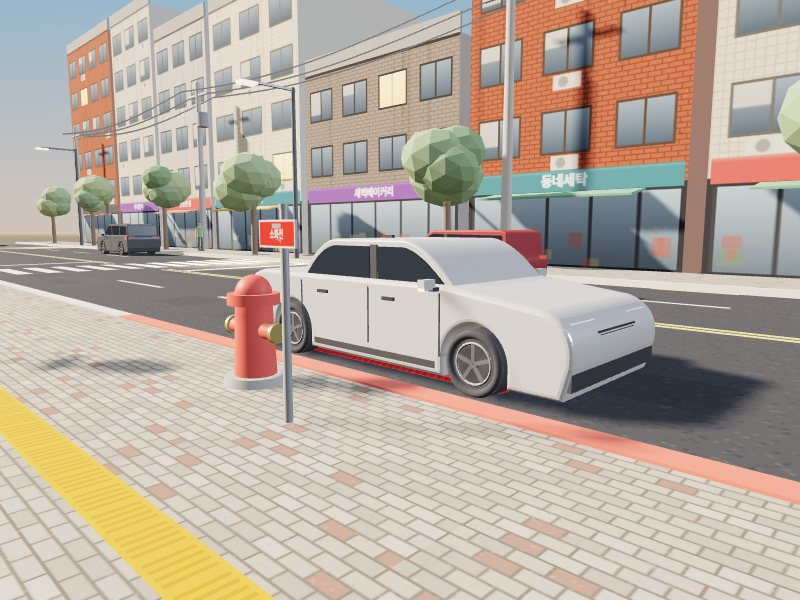
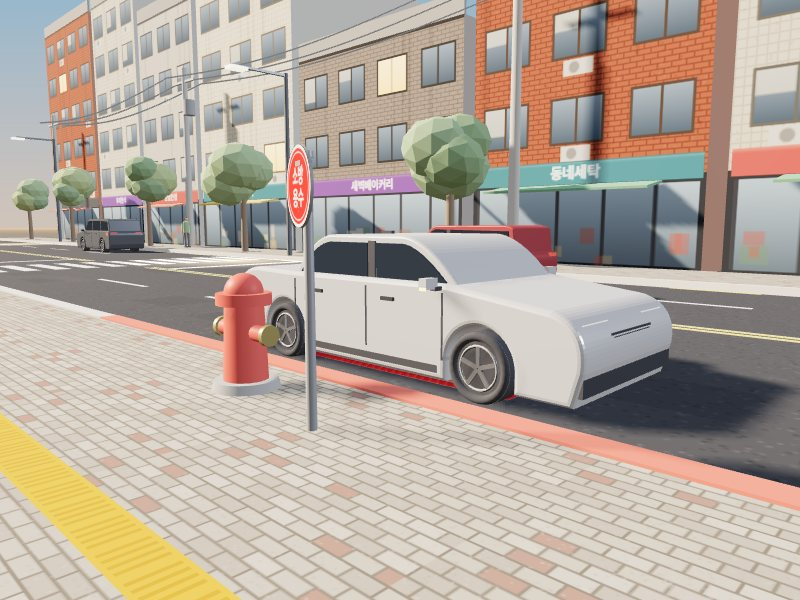
휴대폰은 안전신문고 앱 스토어로 연결, 소화전은 소방용수 표지판 기준
- 안드로이드는 구글 플레이, 아이폰은 앱 스토어의 안전신문고 앱으로 연결(PC는 홈페이지)
- 소화전 옆에 빨간 원형 '소방용수' 표지판을 세우고, 빨간 연석이 없는 곳은 표지판으로 확인하도록 안내

diff --git a/index.html b/index.html
@@ -420,10 +420,10 @@
         <span class="dist">앞뒤 5m 이내</span>
         <p>불이 나면 소방차는 가장 가까운 소화전에 호스를 연결합니다. 그 앞에 차 한 대가 서 있으면 다른 소화전을 찾아 다시 움직여야 합니다.</p>
         <p class="fine"><b>적색 연석 구간은 과태료 2배</b><span>승용차 기준 8만 원</span></p>
-        <p class="note"><strong>이렇게 알아보세요</strong> — 연석과 도로 가장자리에 빨간 칠, 노면에 "소방시설 주정차금지" 표시가 있습니다.</p>
+        <p class="note"><strong>이렇게 알아보세요</strong> — 연석이 빨갛게 칠해진 곳도 있고 아닌 곳도 있습니다. 빨간 연석이 없으면 소화전 옆 빨간 원형 <b>"소방용수" 표지판</b>으로 확인하세요. 노면 글씨는 없을 수도 있습니다.</p>
       </div>
     </div>
-    <p class="sr-only">장면 설명: 흰 승용차가 빨간 연석이 칠해진 소화전 바로 앞에 비상등을 켜고 서 있습니다. 경광등을 켠 소방차가 도착하지만 승용차 뒤에 멈춰 소화전에 붙지 못하고, 소방관이 내려 손짓합니다. 소화전 앞뒤로 5미터 범위가 표시됩니다.</p>
+    <p class="sr-only">장면 설명: 흰 승용차가 빨간 연석이 칠해지고 빨간 원형 소방용수 표지판이 선 소화전 바로 앞에 비상등을 켜고 서 있습니다. 경광등을 켠 소방차가 도착하지만 승용차 뒤에 멈춰 소화전에 붙지 못하고, 소방관이 내려 손짓합니다. 소화전 앞뒤로 5미터 범위가 표시됩니다.</p>
   </section>
 
   <section class="step" id="교차로" data-station="2" aria-labelledby="h1-2">
@@ -588,7 +588,7 @@
         <h2 id="h-final">보이면 찍고,<br />찍으면 바뀝니다</h2>
         <p>시민 한 사람의 신고가 소방차의 길, 아이의 길, 버스의 길을 엽니다.</p>
       </div>
-      <a class="btn" href="https://www.safetyreport.go.kr" target="_blank" rel="noopener">안전신문고 바로가기<span class="sr-only">(새 창)</span>
+      <a class="btn" href="https://www.safetyreport.go.kr" target="_blank" rel="noopener"><span class="go-label">안전신문고 바로가기</span><span class="sr-only go-sr">(새 창)</span>
         <svg viewBox="0 0 24 24" fill="none" stroke="currentColor" stroke-width="2.4" aria-hidden="true"><path d="M5 12h14M13 6l6 6-6 6" /></svg></a>
     </div>
   </section>

diff --git a/street.js b/street.js
@@ -955,10 +955,28 @@
     }
     return g;
   }
-  // 소화전 주변 주정차금지
-  signPost(-34.6, 9.55, -0.7, 2.7, [{ r: 0.32, tex: noParkTex, y: 2.42 }, { w: 0.64, h: 0.22, tex: subPlate('소방시설 주변'), y: 1.93 }]);
-  // 소화전 표지(낮은 기둥)
-  signPost(-28.85, 7.2, 0, 1.55, [{ w: 0.44, h: 0.2, tex: subPlate('소화전', '#c92a24', '#ffffff'), y: 1.38 }], 0.03);
+  // 소방용수 표지판(빨간 원형) — 빨간 연석이 없는 곳에서는 이 표지판으로 소화전 자리를 안다
+  const fireWaterTex = ctex(256, 256, (c) => {
+    c.clearRect(0, 0, 256, 256);
+    c.fillStyle = '#ffffff';
+    c.beginPath();
+    c.arc(128, 128, 127, 0, Math.PI * 2);
+    c.fill();
+    c.fillStyle = '#d0222a';
+    c.beginPath();
+    c.arc(128, 128, 116, 0, Math.PI * 2);
+    c.fill();
+    c.strokeStyle = '#ffffff';
+    c.lineWidth = 4;
+    c.beginPath();
+    c.arc(128, 128, 104, 0, Math.PI * 2);
+    c.stroke();
+    textCanvas(c, '소방', 66, '#ffffff', 800, 128, 98);
+    textCanvas(c, '용수', 66, '#ffffff', 800, 128, 166);
+  });
+  fireWaterTex.center.set(0.5, 0.5);
+  fireWaterTex.rotation = Math.PI / 2; // 둥근 판(원기둥 윗면)에 붙이면 90도 돌아가므로 되돌림
+  signPost(-28.7, 7.05, -0.35, 1.85, [{ r: 0.27, tex: fireWaterTex, y: 1.66 }], 0.035);
   // 교차로 도로명판
   signPost(-7.7, 9.6, 0, 3.3, [{
     w: 1.3, h: 0.44, y: 3.05,

diff --git a/page.js b/page.js
@@ -40,6 +40,23 @@
     hashTimer = setTimeout(syncHash, 250);
   }, { passive: true });
 
+  // ── 안전신문고: 휴대폰은 앱 스토어로 (홈페이지보다 앱 신고가 실제로 쓰이므로) ──
+  const ua = navigator.userAgent || '';
+  const isAndroid = /Android/i.test(ua);
+  const isIOS = /iPhone|iPad|iPod/i.test(ua) || (navigator.platform === 'MacIntel' && navigator.maxTouchPoints > 1);
+  const STORE = isAndroid ? 'https://play.google.com/store/apps/details?id=kr.go.safepeople' : isIOS ? 'https://apps.apple.com/kr/app/id963555704' : '';
+  if (STORE) {
+    document.querySelectorAll('a[href^="https://www.safetyreport.go.kr"]').forEach((a) => {
+      a.href = STORE;
+      a.removeAttribute('target');
+      const lbl = a.querySelector('.go-label');
+      if (lbl) lbl.textContent = '안전신문고 앱 받기';
+      const sr = a.querySelector('.sr-only');
+      if (sr) sr.textContent = isAndroid ? '(구글 플레이)' : '(앱 스토어)';
+      a.setAttribute('aria-label', `안전신문고 앱 받기 ${isAndroid ? '(구글 플레이)' : '(앱 스토어)'}`);
+    });
+  }
+
   // ── 장면 공유 ──
   async function share(id, text) {
     const url = `${location.origin === 'null' ? location.href.split('#')[0] : location.origin + location.pathname}#${encodeURIComponent(id)}`;
